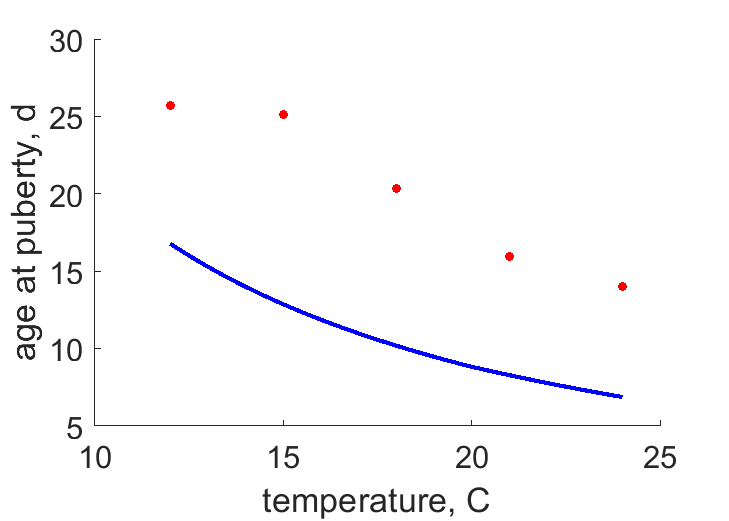
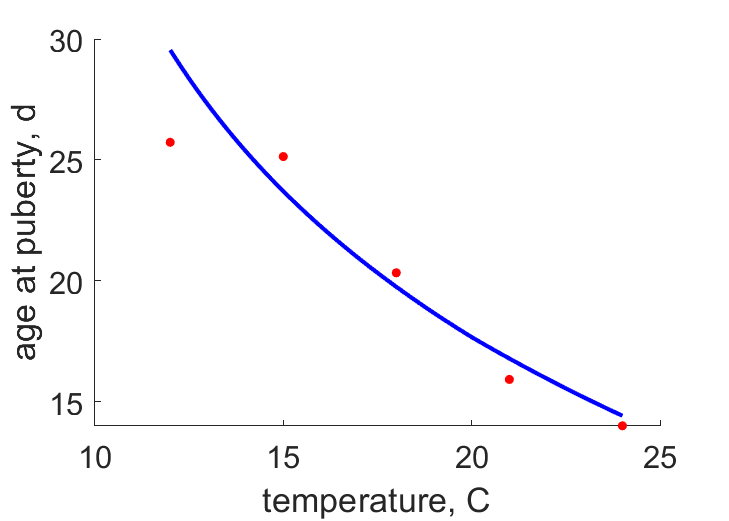
updating model fit with new LCN data

diff --git a/Tachidius_discipes_abp/Tachidius_discipes_res.html b/Tachidius_discipes_abp/Tachidius_discipes_res.html
@@ -44,7 +44,7 @@
   </div>
 
   <div class="par">
-  <h4>COMPLETE = 2.0; MRE =    0.289; SMAE =    0.294; SMSE =    0.106 </h4>
+  <h4>COMPLETE = 2.0; MRE =    1.452; SMAE =    0.253; SMSE =    0.147 </h4>
   </div>
 
   <p class="clear"></p>
@@ -53,33 +53,33 @@
   <h2>Data & predictions</h2>
   <TABLE id="prd">
     <TR  class="head"><TH>data</TH> <TH>prd</TH> <TH>RE</TH>  <TH>symbol</TH> <TH>units</TH> <TH>description</TH> </TR>
-    <TR><TD>4.375</TD> <TD>5.35</TD> <TD>0.2229</TD> <TD>ah</TD> <TD>d</TD> <TD>age at hatch</TD></TR>
-    <TR><TD>0.006853</TD> <TD>0.009052</TD> <TD>0.321</TD> <TD>Lh</TD> <TD>cm</TD> <TD>length at hatch</TD></TR>
-    <TR><TD>0.007812</TD> <TD>0.01002</TD> <TD>0.2821</TD> <TD>Lb</TD> <TD>cm</TD> <TD>length at birth</TD></TR>
-    <TR><TD>0.02666</TD> <TD>0.01844</TD> <TD>0.3083</TD> <TD>Lp</TD> <TD>cm</TD> <TD>length at puberty</TD></TR>
-    <TR><TD>2.057e-05</TD> <TD>2.818e-05</TD> <TD>0.3701</TD> <TD>Wdp</TD> <TD>g</TD> <TD>ultimate dry weight at puberty</TD></TR>
-    <TR><TD>14.6</TD> <TD>11.96</TD> <TD>0.1807</TD> <TD>JOi</TD> <TD>nL/h/mug</TD> <TD>ultimate specific O2 consumption</TD></TR>
-    <TR><TD>0.985</TD> <TD>14.15</TD> <TD>13.37</TD> <TD>WCp</TD> <TD>mugC</TD> <TD>carbon mass at puberty</TD></TR>
-    <TR><TD>0.2353</TD> <TD>2.476</TD> <TD>9.526</TD> <TD>WNp</TD> <TD>mugN</TD> <TD>nitrogen mass at puberty</TD></TR>
-    <TR><TD colspan="2">see figure</TD> <TD>0.2871</TD> <TD>tL12</TD> <TD colspan="2">time <font color="blue"><i>vs.</i></font> area^{(1/2)}</TD>
-    <TR><TD colspan="2">see figure</TD> <TD>0.232</TD> <TD>tL15</TD> <TD colspan="2">time <font color="blue"><i>vs.</i></font> area^{(1/2)}</TD>
-    <TR><TD colspan="2">see figure</TD> <TD>0.2247</TD> <TD>tL18</TD> <TD colspan="2">time <font color="blue"><i>vs.</i></font> area^{(1/2)}</TD>
-    <TR><TD colspan="2">see figure</TD> <TD>0.2035</TD> <TD>tL21</TD> <TD colspan="2">time <font color="blue"><i>vs.</i></font> area^{(1/2)}</TD>
-    <TR><TD colspan="2">see figure</TD> <TD>0.2105</TD> <TD>tL24</TD> <TD colspan="2">time <font color="blue"><i>vs.</i></font> area^{(1/2)}</TD>
-    <TR><TD colspan="2">see figure</TD> <TD>0.1187</TD> <TD>tN12</TD> <TD colspan="2">time <font color="blue"><i>vs.</i></font> clutch size</TD>
-    <TR><TD colspan="2">see figure</TD> <TD>0.4287</TD> <TD>tN15</TD> <TD colspan="2">time <font color="blue"><i>vs.</i></font> clutch size</TD>
-    <TR><TD colspan="2">see figure</TD> <TD>0.3396</TD> <TD>tN18</TD> <TD colspan="2">time <font color="blue"><i>vs.</i></font> clutch size</TD>
-    <TR><TD colspan="2">see figure</TD> <TD>0.4126</TD> <TD>tN21</TD> <TD colspan="2">time <font color="blue"><i>vs.</i></font> clutch size</TD>
-    <TR><TD colspan="2">see figure</TD> <TD>0.289</TD> <TD>tN24</TD> <TD colspan="2">time <font color="blue"><i>vs.</i></font> clutch size</TD>
-    <TR><TD colspan="2">see figure</TD> <TD>0.3355</TD> <TD>Tah</TD> <TD colspan="2">temperature <font color="blue"><i>vs.</i></font> age at hatching</TD>
-    <TR><TD colspan="2">see figure</TD> <TD>15.93</TD> <TD>LWCN</TD> <TD colspan="2">length <font color="blue"><i>vs.</i></font> carbon mass</TD>
-    <TR><TD colspan="2">see figure</TD> <TD>0.4305</TD> <TD>Tap</TD> <TD colspan="2">temperature <font color="blue"><i>vs.</i></font> age at puberty</TD>
-    <TR class="psd"><TD>0.02</TD> <TD>0.01475</TD> <TD>0.2626</TD> <TD>psd.v</TD> <TD>cm/d</TD> <TD>energy conductance</TD></TR>
-    <TR class="psd"><TD> 18</TD> <TD>3267</TD> <TD>180.5</TD> <TD>psd.p_M</TD> <TD>J/d.cm^3</TD> <TD>vol-spec som maint</TD></TR>
-    <TR class="psd"><TD>0.002</TD> <TD>0.002633</TD> <TD>0.3164</TD> <TD>psd.k_J</TD> <TD>1/d</TD> <TD>maturity maint rate coefficient</TD></TR>
-    <TR class="psd"><TD>0.3</TD> <TD>0.003585</TD> <TD>0.988</TD> <TD>psd.k</TD> <TD>-</TD> <TD>maintenance ratio</TD></TR>
-    <TR class="psd"><TD>0.8</TD> <TD>0.9999</TD> <TD>0.2499</TD> <TD>psd.kap</TD> <TD>-</TD> <TD>allocation fraction to soma</TD></TR>
-    <TR class="psd"><TD>0.8</TD> <TD>0.7995</TD> <TD>0.0006676</TD> <TD>psd.kap_G</TD> <TD>-</TD> <TD>growth efficiency</TD></TR>
+    <TR><TD>4.375</TD> <TD>4.152</TD> <TD>0.05106</TD> <TD>ah</TD> <TD>d</TD> <TD>age at hatch</TD></TR>
+    <TR><TD>0.006853</TD> <TD>0.008362</TD> <TD>0.2203</TD> <TD>Lh</TD> <TD>cm</TD> <TD>length at hatch</TD></TR>
+    <TR><TD>0.007812</TD> <TD>0.009349</TD> <TD>0.1967</TD> <TD>Lb</TD> <TD>cm</TD> <TD>length at birth</TD></TR>
+    <TR><TD>0.02666</TD> <TD>0.02413</TD> <TD>0.09467</TD> <TD>Lp</TD> <TD>cm</TD> <TD>length at puberty</TD></TR>
+    <TR><TD>2.057e-05</TD> <TD>1.852e-05</TD> <TD>0.09992</TD> <TD>Wdp</TD> <TD>g</TD> <TD>ultimate dry weight at puberty</TD></TR>
+    <TR><TD>14.6</TD> <TD>13.13</TD> <TD>0.1005</TD> <TD>JOi</TD> <TD>nL/h/mug</TD> <TD>ultimate specific O2 consumption</TD></TR>
+    <TR><TD>0.985</TD> <TD>9.297</TD> <TD>8.439</TD> <TD>WCp</TD> <TD>mugC</TD> <TD>carbon mass at puberty</TD></TR>
+    <TR><TD>0.2353</TD> <TD>1.627</TD> <TD>5.915</TD> <TD>WNp</TD> <TD>mugN</TD> <TD>nitrogen mass at puberty</TD></TR>
+    <TR><TD colspan="2">see figure</TD> <TD>0.09853</TD> <TD>tL12</TD> <TD colspan="2">time <font color="blue"><i>vs.</i></font> area^{(1/2)}</TD>
+    <TR><TD colspan="2">see figure</TD> <TD>0.07467</TD> <TD>tL15</TD> <TD colspan="2">time <font color="blue"><i>vs.</i></font> area^{(1/2)}</TD>
+    <TR><TD colspan="2">see figure</TD> <TD>0.1014</TD> <TD>tL18</TD> <TD colspan="2">time <font color="blue"><i>vs.</i></font> area^{(1/2)}</TD>
+    <TR><TD colspan="2">see figure</TD> <TD>0.1239</TD> <TD>tL21</TD> <TD colspan="2">time <font color="blue"><i>vs.</i></font> area^{(1/2)}</TD>
+    <TR><TD colspan="2">see figure</TD> <TD>0.0677</TD> <TD>tL24</TD> <TD colspan="2">time <font color="blue"><i>vs.</i></font> area^{(1/2)}</TD>
+    <TR><TD colspan="2">see figure</TD> <TD>0.1145</TD> <TD>tN12</TD> <TD colspan="2">time <font color="blue"><i>vs.</i></font> clutch size</TD>
+    <TR><TD colspan="2">see figure</TD> <TD>0.3024</TD> <TD>tN15</TD> <TD colspan="2">time <font color="blue"><i>vs.</i></font> clutch size</TD>
+    <TR><TD colspan="2">see figure</TD> <TD>0.1379</TD> <TD>tN18</TD> <TD colspan="2">time <font color="blue"><i>vs.</i></font> clutch size</TD>
+    <TR><TD colspan="2">see figure</TD> <TD>0.5348</TD> <TD>tN21</TD> <TD colspan="2">time <font color="blue"><i>vs.</i></font> clutch size</TD>
+    <TR><TD colspan="2">see figure</TD> <TD>0.2763</TD> <TD>tN24</TD> <TD colspan="2">time <font color="blue"><i>vs.</i></font> clutch size</TD>
+    <TR><TD colspan="2">see figure</TD> <TD>0.2139</TD> <TD>Tah</TD> <TD colspan="2">temperature <font color="blue"><i>vs.</i></font> age at hatching</TD>
+    <TR><TD colspan="2">see figure</TD> <TD>24.7</TD> <TD>LWCN</TD> <TD colspan="2">length <font color="blue"><i>vs.</i></font> carbon mass</TD>
+    <TR><TD colspan="2">see figure</TD> <TD>0.06743</TD> <TD>Tap</TD> <TD colspan="2">temperature <font color="blue"><i>vs.</i></font> age at puberty</TD>
+    <TR class="psd"><TD>0.02</TD> <TD>0.01469</TD> <TD>0.2656</TD> <TD>psd.v</TD> <TD>cm/d</TD> <TD>energy conductance</TD></TR>
+    <TR class="psd"><TD> 18</TD> <TD>1943</TD> <TD>107</TD> <TD>psd.p_M</TD> <TD>J/d.cm^3</TD> <TD>vol-spec som maint</TD></TR>
+    <TR class="psd"><TD>0.002</TD> <TD>0.002431</TD> <TD>0.2156</TD> <TD>psd.k_J</TD> <TD>1/d</TD> <TD>maturity maint rate coefficient</TD></TR>
+    <TR class="psd"><TD>0.3</TD> <TD>0.00556</TD> <TD>0.9815</TD> <TD>psd.k</TD> <TD>-</TD> <TD>maintenance ratio</TD></TR>
+    <TR class="psd"><TD>0.8</TD> <TD>0.9997</TD> <TD>0.2496</TD> <TD>psd.kap</TD> <TD>-</TD> <TD>allocation fraction to soma</TD></TR>
+    <TR class="psd"><TD>0.8</TD> <TD>0.8002</TD> <TD>0.0002533</TD> <TD>psd.kap_G</TD> <TD>-</TD> <TD>growth efficiency</TD></TR>
     <TR class="psd"><TD>0.95</TD> <TD>0.95</TD> <TD>  0</TD> <TD>psd.kap_R</TD> <TD>-</TD> <TD>reproduction efficiency</TD></TR>
   </TABLE>
   </div>
@@ -89,32 +89,32 @@
   <TABLE id="par">
     <TR class="head"><TH>symbol</TH> <TH>units</TH> <TH>value</TH>  <TH>free</TH> <TH>description</TH> </TR>
     <TR><TD>T_ref</TD> <TD>K</TD> <TD>293.1</TD> <TD>0</TD> <TD>Reference temperature</TD></TR>
-    <TR><TD>T_A</TD> <TD>K</TD> <TD>5463</TD> <TD>1</TD> <TD>Arrhenius temperature</TD></TR>
-    <TR><TD>z</TD> <TD>-</TD> <TD>0.05744</TD> <TD>1</TD> <TD>zoom factor</TD></TR>
+    <TR><TD>T_A</TD> <TD>K</TD> <TD>4431</TD> <TD>1</TD> <TD>Arrhenius temperature</TD></TR>
+    <TR><TD>z</TD> <TD>-</TD> <TD>0.02768</TD> <TD>1</TD> <TD>zoom factor</TD></TR>
     <TR><TD>F_m</TD> <TD>l/d.cm^2</TD> <TD>6.5</TD> <TD>0</TD> <TD>{F_m}, max spec searching rate</TD></TR>
     <TR><TD>kap_X</TD> <TD>-</TD> <TD>0.8</TD> <TD>0</TD> <TD>digestion efficiency of food to reserve</TD></TR>
     <TR><TD>kap_P</TD> <TD>-</TD> <TD>0.1</TD> <TD>0</TD> <TD>faecation efficiency of food to faeces</TD></TR>
-    <TR><TD>v</TD> <TD>cm/d</TD> <TD>0.01475</TD> <TD>1</TD> <TD>energy conductance</TD></TR>
-    <TR><TD>kap</TD> <TD>-</TD> <TD>0.9999</TD> <TD>1</TD> <TD>allocation fraction to soma</TD></TR>
+    <TR><TD>v</TD> <TD>cm/d</TD> <TD>0.01469</TD> <TD>1</TD> <TD>energy conductance</TD></TR>
+    <TR><TD>kap</TD> <TD>-</TD> <TD>0.9997</TD> <TD>1</TD> <TD>allocation fraction to soma</TD></TR>
     <TR><TD>kap_R</TD> <TD>-</TD> <TD>0.95</TD> <TD>0</TD> <TD>reproduction efficiency</TD></TR>
-    <TR><TD>p_M</TD> <TD>J/d.cm^3</TD> <TD>3267</TD> <TD>1</TD> <TD>[p_M], vol-spec somatic maint</TD></TR>
+    <TR><TD>p_M</TD> <TD>J/d.cm^3</TD> <TD>1943</TD> <TD>1</TD> <TD>[p_M], vol-spec somatic maint</TD></TR>
     <TR><TD>p_T</TD> <TD>J/d.cm^2</TD> <TD>  0</TD> <TD>0</TD> <TD>{p_T}, surf-spec somatic maint</TD></TR>
-    <TR><TD>k_J</TD> <TD>1/d</TD> <TD>0.002633</TD> <TD>1</TD> <TD>maturity maint rate coefficient</TD></TR>
-    <TR><TD>E_G</TD> <TD>J/cm^3</TD> <TD>4449</TD> <TD>1</TD> <TD>[E_G], spec cost for structure</TD></TR>
-    <TR><TD>E_Hb</TD> <TD>J</TD> <TD>5.98e-06</TD> <TD>1</TD> <TD>maturity at birth</TD></TR>
-    <TR><TD>E_Hp</TD> <TD>J</TD> <TD>5.138e-05</TD> <TD>1</TD> <TD>maturity at puberty</TD></TR>
+    <TR><TD>k_J</TD> <TD>1/d</TD> <TD>0.002431</TD> <TD>1</TD> <TD>maturity maint rate coefficient</TD></TR>
+    <TR><TD>E_G</TD> <TD>J/cm^3</TD> <TD>4444</TD> <TD>1</TD> <TD>[E_G], spec cost for structure</TD></TR>
+    <TR><TD>E_Hb</TD> <TD>J</TD> <TD>7.336e-06</TD> <TD>1</TD> <TD>maturity at birth</TD></TR>
+    <TR><TD>E_Hp</TD> <TD>J</TD> <TD>0.0002342</TD> <TD>1</TD> <TD>maturity at puberty</TD></TR>
     <TR><TD>h_a</TD> <TD>1/d^2</TD> <TD>2.737e-22</TD> <TD>0</TD> <TD>Weibull aging acceleration</TD></TR>
     <TR><TD>s_G</TD> <TD>-</TD> <TD>0.0001</TD> <TD>0</TD> <TD>Gompertz stress coefficient</TD></TR>
-    <TR><TD>E_Hh</TD> <TD>J</TD> <TD>3.991e-06</TD> <TD>1</TD> <TD>maturity at hatch</TD></TR>
-    <TR><TD>T_AL</TD> <TD>K</TD> <TD>1.613e+04</TD> <TD>1</TD> <TD>Arrhenius temperature low boundary</TD></TR>
-    <TR><TD>T_L</TD> <TD>K</TD> <TD>276.5</TD> <TD>1</TD> <TD>Lower temperature boundary for optimal growth</TD></TR>
-    <TR><TD>del_M</TD> <TD>-</TD> <TD>1.839</TD> <TD>1</TD> <TD>shape coefficient</TD></TR>
+    <TR><TD>E_Hh</TD> <TD>J</TD> <TD>4.569e-06</TD> <TD>1</TD> <TD>maturity at hatch</TD></TR>
+    <TR><TD>T_AL</TD> <TD>K</TD> <TD>2.5e+04</TD> <TD>0</TD> <TD>Arrhenius temperature low boundary</TD></TR>
+    <TR><TD>T_L</TD> <TD>K</TD> <TD>278</TD> <TD>0</TD> <TD>Lower temperature boundary for optimal growth</TD></TR>
+    <TR><TD>del_M</TD> <TD>-</TD> <TD>1.588</TD> <TD>1</TD> <TD>shape coefficient</TD></TR>
     <TR><TD>f</TD> <TD>-</TD> <TD>  1</TD> <TD>0</TD> <TD>scaled functional response for 0-var data</TD></TR>
-    <TR><TD>f_tL12</TD> <TD>-</TD> <TD>0.9487</TD> <TD>1</TD> <TD>scaled functional response for data at 12 C</TD></TR>
+    <TR><TD>f_tL12</TD> <TD>-</TD> <TD>1.055</TD> <TD>1</TD> <TD>scaled functional response for data at 12 C</TD></TR>
     <TR><TD>f_tL15</TD> <TD>-</TD> <TD>  1</TD> <TD>0</TD> <TD>scaled functional response for data at 15 C</TD></TR>
     <TR><TD>f_tL18</TD> <TD>-</TD> <TD>  1</TD> <TD>0</TD> <TD>scaled functional response for data at 18 C</TD></TR>
-    <TR><TD>f_tL21</TD> <TD>-</TD> <TD>0.6976</TD> <TD>1</TD> <TD>scaled functional response for data at 21 C</TD></TR>
-    <TR><TD>f_tL24</TD> <TD>-</TD> <TD>0.6791</TD> <TD>1</TD> <TD>scaled functional response for data at 24 C</TD></TR>
+    <TR><TD>f_tL21</TD> <TD>-</TD> <TD>0.9905</TD> <TD>1</TD> <TD>scaled functional response for data at 21 C</TD></TR>
+    <TR><TD>f_tL24</TD> <TD>-</TD> <TD>0.9359</TD> <TD>1</TD> <TD>scaled functional response for data at 24 C</TD></TR>
   </TABLE>
   </div>
 

diff --git a/Tachidius_discipes_abp/pars_init_Tachidius_discipes.m b/Tachidius_discipes_abp/pars_init_Tachidius_discipes.m
@@ -25,10 +25,10 @@ par.s_G = 0.0001;     free.s_G   = 0;   units.s_G = '-';          label.s_G = 'G
 
 %% other parameters 
 par.E_Hh = 4.743e-06; free.E_Hh  = 1;   units.E_Hh = 'J';         label.E_Hh = 'maturity at hatch'; 
-par.T_AL = 20000;     free.T_AL  = 1;   units.T_AL = 'K';         label.T_AL = 'Arrhenius temperature low boundary'; 
-par.T_L = 280;        free.T_L   = 1;   units.T_L = 'K';          label.T_L = 'Lower temperature boundary for optimal growth';
-%par.T_AH = 30000;     free.T_AH  = 1;   units.T_AH = 'K';         label.T_AH = 'Arrhenius temperature high boundary'; 
-%par.T_H = 310;        free.T_H   = 0;   units.T_H = 'K';          label.T_H = 'Higher temperature boundary for optimal growth'; 
+par.T_AL = 25000;     free.T_AL  = 0;   units.T_AL = 'K';         label.T_AL = 'Arrhenius temperature low boundary'; 
+par.T_L = 278;        free.T_L   = 0;   units.T_L = 'K';          label.T_L = 'Lower temperature boundary for optimal growth';
+%par.T_AH = 20000;     free.T_AH  = 0;   units.T_AH = 'K';         label.T_AH = 'Arrhenius temperature high boundary'; 
+%par.T_H = 300;        free.T_H   = 0;   units.T_H = 'K';          label.T_H = 'Higher temperature boundary for optimal growth'; 
 par.del_M = 1.3692;   free.del_M = 1;   units.del_M = '-';        label.del_M = 'shape coefficient'; 
 par.f = 1;            free.f     = 0;   units.f = '-';            label.f = 'scaled functional response for 0-var data'; 
 par.f_tL12 = 1.0;     free.f_tL12 = 1;  units.f_tL12 = '-';       label.f_tL12 = 'scaled functional response for data at 12 C';

diff --git a/Tachidius_discipes_abp/mydata_Tachidius_discipes.m b/Tachidius_discipes_abp/mydata_Tachidius_discipes.m
@@ -345,7 +345,7 @@ bibkey.Tah = {'Vigl2023'};
 
 % new LWCN data
 LWCN = readmatrix('LCN.txt');
-LWCN(:,1) = LWCN(:,1) / 1e5;
+%LWCN(:,1) = LWCN(:,1) / 1e5;
 data.LWCN= LWCN;
 %data.LWCN = LWCN(:,[1 2]);
 units.LWCN = {'cm', 'mugC', 'mugN'}; label.LWCN= {'length', 'carbon mass', 'nitrogen mass'};
@@ -376,7 +376,7 @@ weights = setweights(data, []);
 weights.WCp = 0;
 weights.WNp = 0;
 %weights.Wdp = 0;
-weights.LWCN= 0*weights.LWCN;
+%weights.LWCN= 0*weights.LWCN;
 
 %% set pseudodata and respective weights
 [data, units, label, weights] = addpseudodata(data, units, label, weights);
